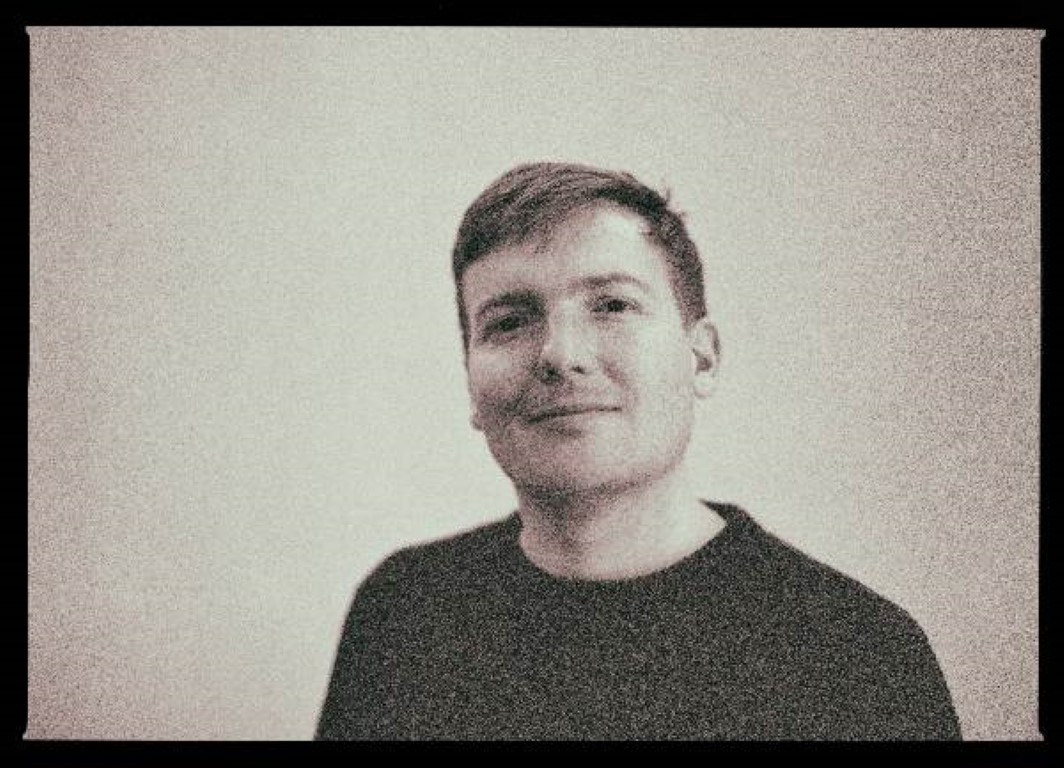
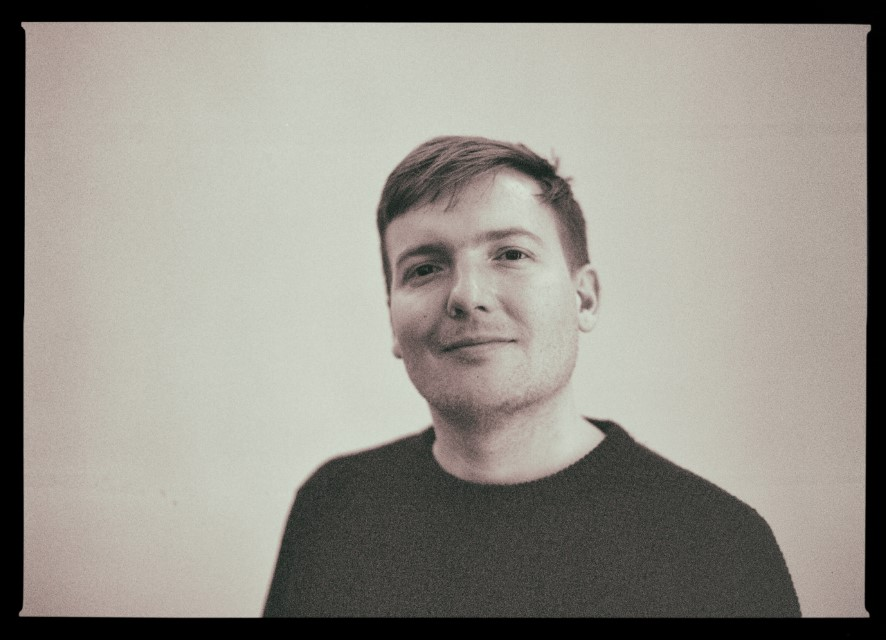
styling changes

diff --git a/_includes/articles.html b/_includes/articles.html
@@ -5,6 +5,8 @@
         <div class="archive-item col-12 pl-0 pr-0 {% unless forloop.first %}mt-5 pt-3 border-top{% endunless %}">
             <h2 class="mb-0"><a href="{{ post.url | absolute_url }}" class="stretched-link">{{ post.title }}</a></h2>
             <h6 class="text-muted font-weight-lighter my-0">{{ post.description }}</h6>
+            <h6 class="card-subtitle mb-3 text-secondary">
+                {{ post.date | date_to_string }} </h6>
             {% unless post.featured_image == false %}
                 {% if post.featured_image %}
                     {% assign featured_image = post.featured_image %}
@@ -15,8 +17,6 @@
                     </div>
                 {% endif %}
             {% endunless %}
-            <h6 class="card-subtitle mb-3 text-secondary">
-                {{ post.date | date_to_string }} </h6>
             <p class="mt-3">{{ post.excerpt | strip_html | truncate: 300 }}</p>
         </div>
     {% endfor %}

diff --git a/_sass/main.scss b/_sass/main.scss
@@ -3,7 +3,7 @@
     --font-color: white;
     --navbar-dark-link-color: white;
     --navbar-light-link-color: white;
-    --divider-color: #red;
+    --divider-color: white;
     --code-background-color: #0f140f;
 }
 
@@ -75,6 +75,12 @@ main {
     .featured-image {
         height: 10rem;
     }
+    .center {
+        display: block;
+        margin-left: auto;
+        margin-right: auto;
+        width: 75%;
+}
 
     video {
   /* override other styles to make responsive */

diff --git a/_includes/components/post-card.html b/_includes/components/post-card.html
@@ -1,7 +1,7 @@
 {% include logic.html %}
 <div class="card card-post border-top-0 border-left-0 border-right-0 rounded-0">
       <div style="background-color: #161716">
-        <h4 class="card-title mb-4">
+        <h4 class="card-title">
             <a href="{{ post.url | absolute_url }}">{{ post.title }}</a>
         </h4>
         <h6 class="card-subtitle text-secondary">

diff --git a/_includes/disqus_comments.html b/_includes/disqus_comments.html
@@ -8,7 +8,7 @@
     };
     (function() {
       var d = document, s = d.createElement('script');
-      s.src = 'https://davidralphlewis.disqus.com/embed.js';
+      s.src = 'https://{{ site.disqus.shortname }}.disqus.com/embed.js';
       s.setAttribute('data-timestamp', +new Date());
       (d.head || d.body).appendChild(s);
     })();

diff --git a/_includes/masthead.html b/_includes/masthead.html
@@ -9,6 +9,8 @@
         <div class="container my-5 py-5">
 {% endif %}
             <h1 class="display-3">{{ page.title }}</h1>
+            <h6 class="card-subtitle text-secondary">
+                {{ post.date | date_to_string }} </h6>
             <p class="lead">{{ page.description }}</p>
         </div>
     </div>

diff --git a/_layouts/default.html b/_layouts/default.html
@@ -13,8 +13,6 @@
   <body>
     {% include navigation.html %}
     {% include masthead.html %}
-    <h6 class="card-subtitle mb-3 text-secondary">
-        {{ post.date | date_to_string }} </h6>
     {% include content.html %}
     {% include footer.html %}
   </body>

diff --git a/index.md b/index.md
@@ -1,5 +1,5 @@
 ---
-layout: default
+layout: page
 title: "About" # page title (seo, navigation, masthead), e.g. "string"
 description: "A bit about me" # page description (seo, masthead), e.g. "string"
 excerpt:  # post excerpt (seo, articles, archive excerpt), e.g. "string"
@@ -22,7 +22,7 @@ masthead_style: plain # default masthead style, e.g. banner, plain; default: ban
 featured_image: # custom featured image path (masthead, social, etc.), e.g. '/path/to/image.jpg', false (hide default featured image)
 social: false # display social sharing links on pages, e.g. true, false
 ---
-![image](/assets/images/site/me.jpg)
+ <img src="/assets/images/site/me.jpg" alt="Photo taken by Sam Cavender @samsnapsalot" class="center"> 
 
 David Ralph Lewis is a poet and short story writer based in Bristol, UK, whose work has appeared in Neon and DogEar magazines as well as the Lies, Dreaming podcast. He blogs regularly about politics and art and often scrawls over newspapers to create blackout poetry. When not writing, he enjoys dancing badly at gigs, attempting to grow vegetables and taking photos. He understands a very, very small amount of what is going on in the world.
 
